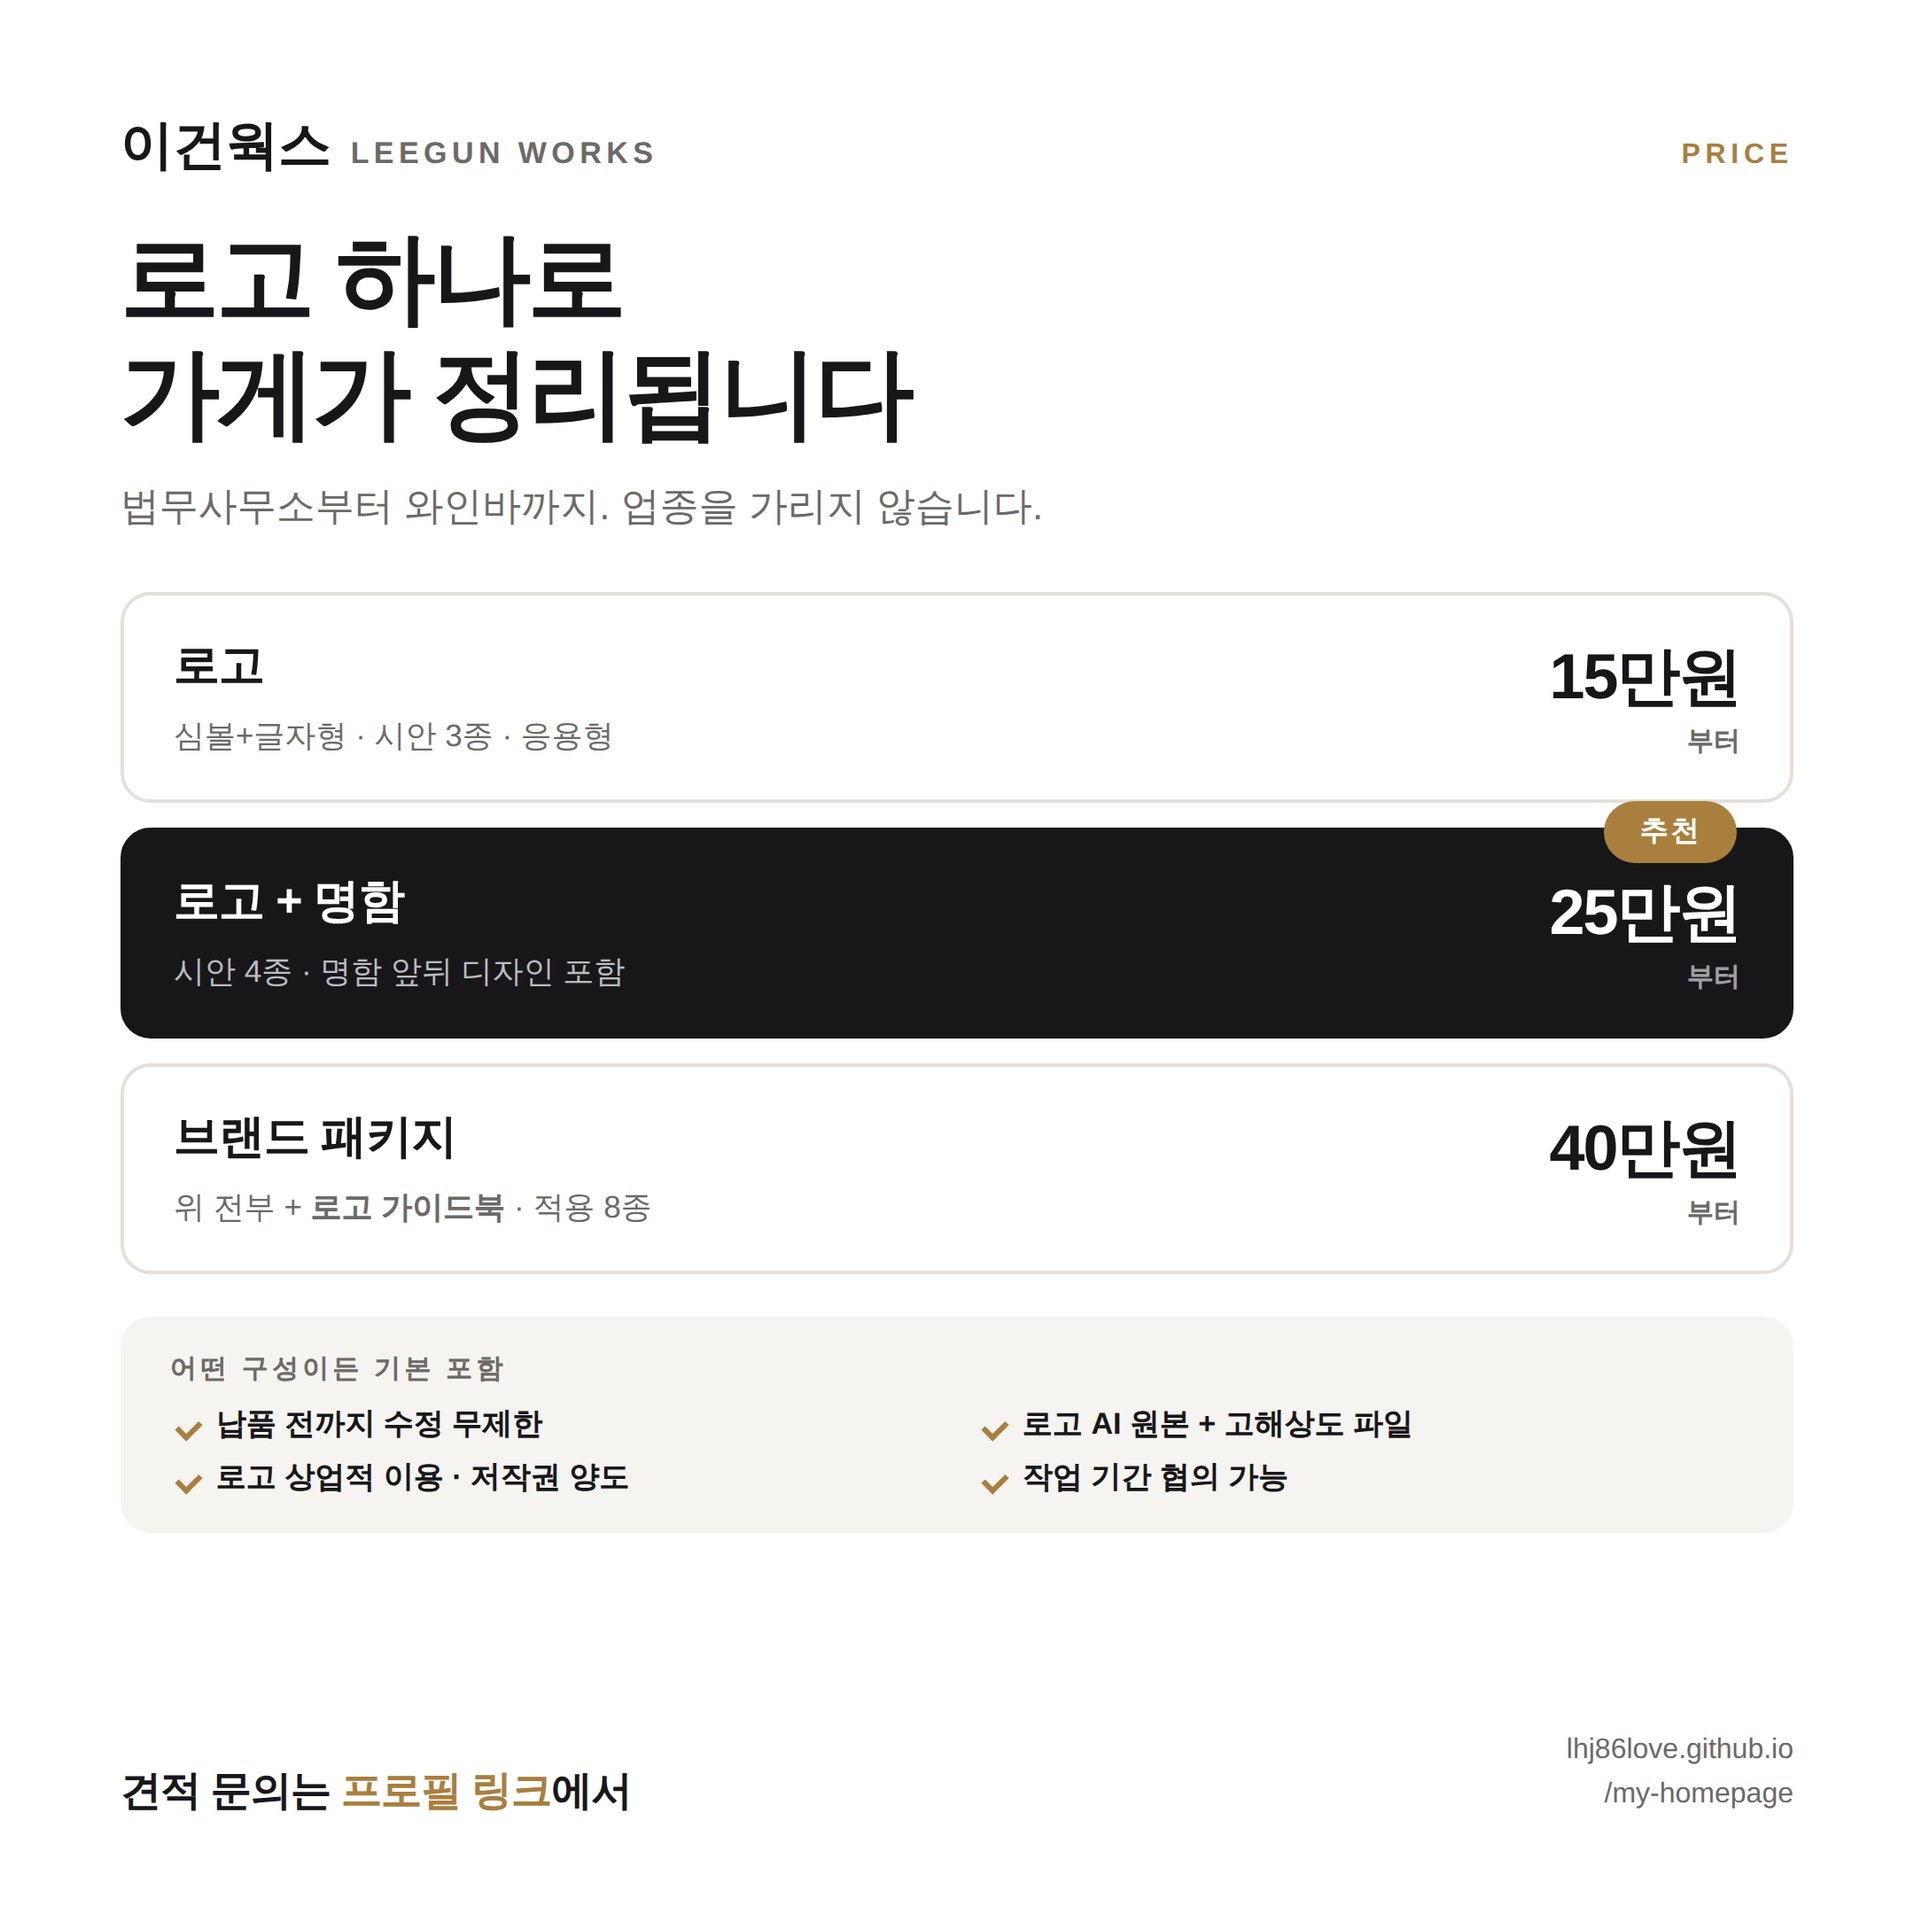
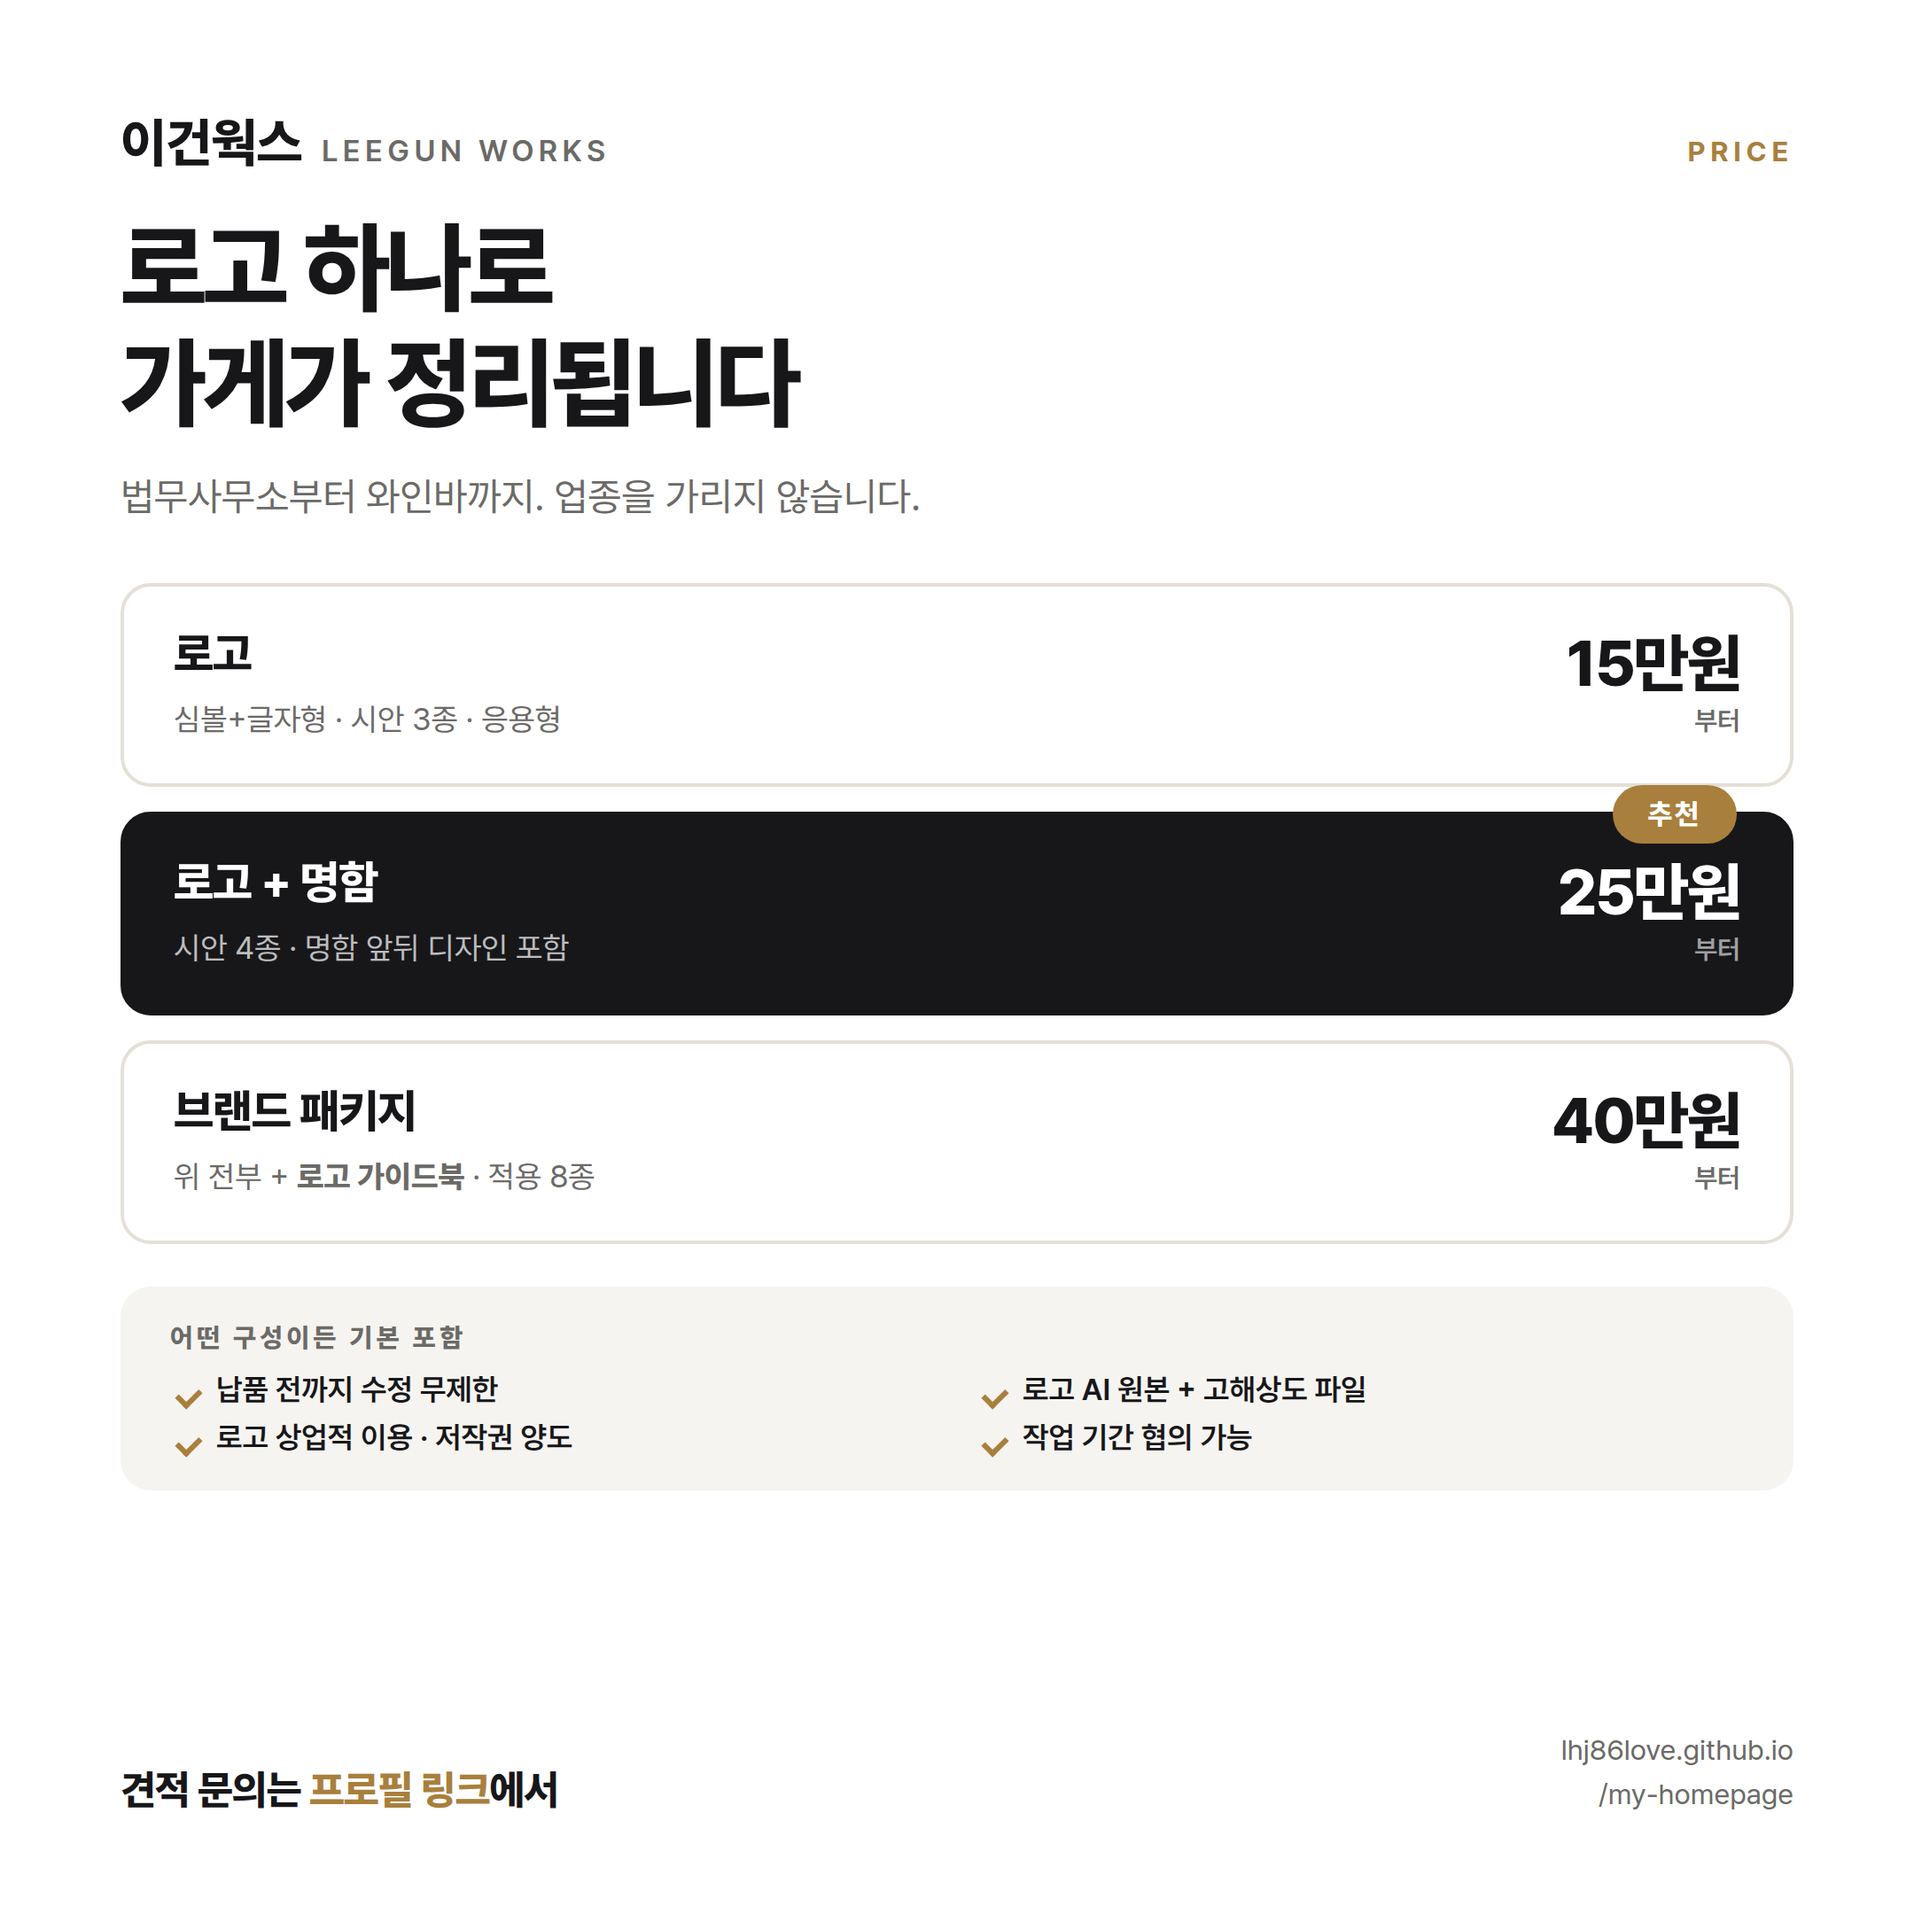
SNS 가격표 이미지에 프리텐다드 적용
홈페이지는 이미 프리텐다드를 쓰고 있었으나, SNS 가격표 이미지는
시스템 기본 글꼴로 렌더링되어 톤이 달랐음.

- sns/가격표-이미지-원본.html 에 프리텐다드 CDN 연결
- 글꼴 스택을 홈페이지와 동일하게 통일
- 가격표 이미지 2종 재생성 (4:5, 1:1)

Claude-Session: https://claude.ai/code/session_017k88eCwHgaHqXUauqk9q1x

diff --git a/sns/가격표-이미지-원본.html b/sns/가격표-이미지-원본.html
@@ -2,6 +2,8 @@
 <html lang="ko">
 <head>
 <meta charset="UTF-8">
+<link rel="stylesheet"
+      href="https://cdn.jsdelivr.net/gh/orioncactus/pretendard@v1.3.9/dist/web/static/pretendard.min.css">
 <style>
   :root {
     --paper: #ffffff;
@@ -10,8 +12,8 @@
     --soft:  #6b6a67;
     --line:  #e4e0d8;
     --accent:#a97f3d;
-    --font: -apple-system, BlinkMacSystemFont, "Apple SD Gothic Neo",
-            "Noto Sans KR", "Malgun Gothic", sans-serif;
+    --font: "Pretendard Variable", Pretendard, -apple-system, BlinkMacSystemFont,
+            "Apple SD Gothic Neo", "Malgun Gothic", sans-serif;
   }
   * { box-sizing: border-box; margin: 0; padding: 0; }
   body { background: var(--paper); font-family: var(--font); color: var(--ink); word-break: keep-all; }
